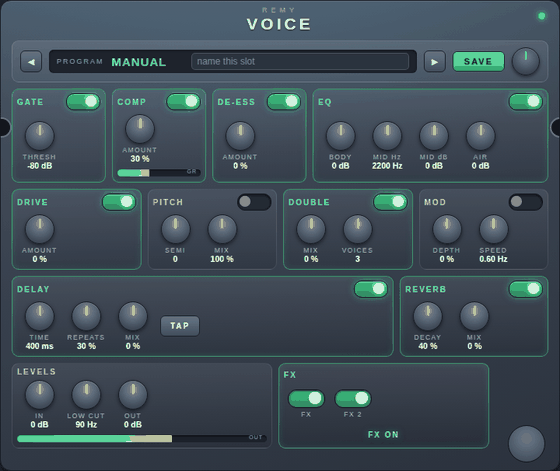
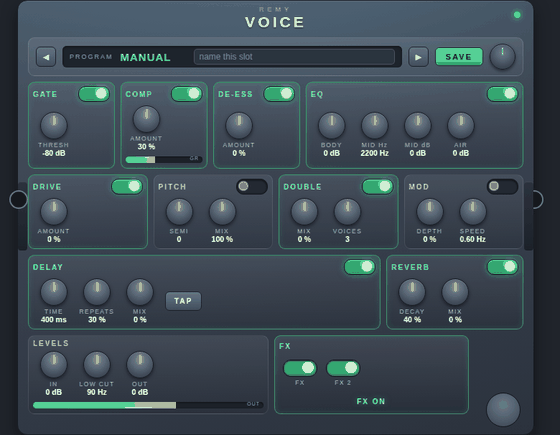
Voice: stop the web UI clipping its own jacks
The interface carried overflow: hidden, put there to keep the rounded
corners tidy. The jacks are positioned OUTSIDE the panel - that is where a
cable goes - so the rule did not tidy anything, it deleted both sockets
and with them any way of patching the plugin into a pedalboard. It looked
immaculate and could not be connected.

Gone, and it cannot come back: check_modgui.js now reads the pedal's own
rule out of the rendered stylesheet and fails if anything clips it, and
checks that both sets of jacks are placed. Nothing else overflows, which
make_screenshot.js was already measuring on every child.

The jacks also get a socket rail down each edge so it is obvious where the
cable goes before one is plugged in, and the screenshot is framed 34px
wider each side so they are in the picture - the interface being also
where somebody looks to find out where the cable goes.

Build stamp VOICE_BUILD5 so an install can be told apart from the last
one, though the binary itself is unchanged.

Claude-Session: https://claude.ai/code/session_01CoYRVsCxy8zQtz4yC9Pa7v

diff --git a/voice/modgui/style-voice.css b/voice/modgui/style-voice.css
@@ -25,7 +25,12 @@
     box-shadow: inset 0 1px 0 rgba(255,255,255,.10), 0 10px 22px rgba(0,0,0,.45);
     font-family: -apple-system, BlinkMacSystemFont, "Segoe UI", Helvetica, Arial, sans-serif;
     color: #e9f0f7;
-    overflow: hidden;
+    /* NO overflow: hidden here, ever. The jacks are positioned OUTSIDE the
+       panel on purpose - that is where a cable goes - so clipping the box
+       does not tidy the corners, it deletes the sockets and with them any
+       way of patching the plugin into a pedalboard. Nothing else overflows:
+       make_screenshot.js measures every child and refuses to write an image
+       if one does. */
 }
 
 .mod-pedal-voice{{{cns}}} .mod-drag-handle {
@@ -270,10 +275,25 @@
    The jacks get ONLY their "top": their horizontal position comes from
    pedals.css, and overriding it drags them into the middle of the pedal. */
 
-.mod-pedal-voice{{{cns}}} .mod-input  { top: 150px; }
-.mod-pedal-voice{{{cns}}} .mod-input:nth-of-type(2) { top: 200px; }
-.mod-pedal-voice{{{cns}}} .mod-output { top: 150px; }
-.mod-pedal-voice{{{cns}}} .mod-output:nth-of-type(2) { top: 200px; }
+.mod-pedal-voice{{{cns}}} .mod-input  { top: 264px; }
+.mod-pedal-voice{{{cns}}} .mod-input:nth-of-type(2)  { top: 322px; }
+.mod-pedal-voice{{{cns}}} .mod-output { top: 264px; }
+.mod-pedal-voice{{{cns}}} .mod-output:nth-of-type(2) { top: 322px; }
+
+/* A socket plate behind each jack, so it is obvious where the cable goes
+   even before one is plugged in. Purely decoration: the jack itself is
+   mod-ui's element, sitting on top of this. */
+.mod-pedal-voice{{{cns}}}::before,
+.mod-pedal-voice{{{cns}}}::after {
+    content: "";
+    position: absolute; top: 252px;
+    width: 13px; height: 96px;
+    border-radius: 4px;
+    background: linear-gradient(180deg, #2b323d 0%, #1b212a 100%);
+    box-shadow: inset 0 1px 0 rgba(255,255,255,.10);
+}
+.mod-pedal-voice{{{cns}}}::before { left: 0; }
+.mod-pedal-voice{{{cns}}}::after  { right: 0; }
 
 .mod-pedal-voice{{{cns}}} .mod-footswitch {
     position: absolute; bottom: 10px; right: 18px;

diff --git a/voice/check_modgui.js b/voice/check_modgui.js
@@ -226,6 +226,22 @@ const orphelines = [...styled].filter(c => !doc.querySelector('[class*="' + c + 
 say('no styled class missing from the template', orphelines.length === 0,
     orphelines.join(' '));
 
+/* --- the jacks live outside the panel, so the panel must not clip ---
+       This is the check that would have caught the interface shipping with
+       no visible sockets at all: overflow: hidden on the pedal deletes
+       them, and with them any way of patching the plugin in. */
+/* comments stripped first: the rule carries a comment saying not to put
+   overflow: hidden there, and a checker that reads its own warning as a
+   violation is a checker nobody trusts */
+const cssNu = renderedCss.replace(/\/\*[\s\S]*?\*\//g, ' ');
+const regleP = /\.mod-pedal-voice[^{]*\{([^}]*)\}/.exec(cssNu);
+say('the pedal does not clip what sticks out of it',
+    regleP !== null && !/overflow\s*:\s*hidden/.test(regleP[1]));
+for (const cote of ['mod-input', 'mod-output']) {
+    say('the ' + cote + ' jacks are placed by the stylesheet',
+        new RegExp('\\.' + cote + '[^{]*\\{[^}]*top\\s*:').test(cssNu));
+}
+
 /* --- bank images --- */
 for (const f of ['thumbnail-voice.png', 'screenshot-voice.png',
                  'thumbnail-voice-stereo.png', 'screenshot-voice-stereo.png']) {

diff --git a/voice/make_screenshot.js b/voice/make_screenshot.js
@@ -105,7 +105,13 @@ document.querySelector('.voice-light${'_http___remy_live_github_io_lv2_voice'}')
         process.exit(1);
     }
     const cible = 'modgui/screenshot-voice' + (stereo ? '-stereo' : '') + '.png';
-    await p.locator('.mod-pedal').screenshot({ path: cible });
+    /* a margin either side, so the jacks - which live OUTSIDE the panel -
+       are in the picture: the interface is also where somebody looks to
+       find out where the cable goes */
+    const box = await p.locator('.mod-pedal').boundingBox();
+    await p.screenshot({ path: cible, clip: {
+        x: Math.max(0, box.x - 34), y: box.y,
+        width: box.width + 68, height: box.height } });
     await browser.close();
     console.log(cible + ': ' + debord.w + 'x' + debord.h);
 })();

diff --git a/voice/voice.c b/voice/voice.c
@@ -86,7 +86,7 @@
    the architecture once let a 32-bit binary pass a check meant to catch
    exactly that. */
 __attribute__((used))
-static const volatile char build_tag[] = "VOICE_BUILD4_AARCH64_20260905";
+static const volatile char build_tag[] = "VOICE_BUILD5_AARCH64_20260905";
 
 /* ------------------------------------------------------------------ */
 /* Maths without libm.                                                 */

diff --git a/voice/README.md b/voice/README.md
@@ -229,6 +229,14 @@ compressor box carries a gain-reduction meter and the levels box an output
 meter, both fed by the plugin's own outputs. TAP is a button as well as a
 port.
 
+The jacks sit *outside* the panel, on a socket rail down each edge — which
+is why the stylesheet must never put `overflow: hidden` on the pedal. The
+first version of this interface did, and it looked immaculate right up
+until somebody went to plug a cable in and found there was nowhere to plug
+it: the sockets had been clipped away along with the corners. There is now
+a check for exactly that, and the shipped screenshot is framed wide enough
+to show them.
+
 The interface is checked the way the rest of the plugin is:
 `check_modgui.js` renders the template with mustache — the engine mod-ui
 itself uses — then walks the DOM: every control port must be reachable, every
